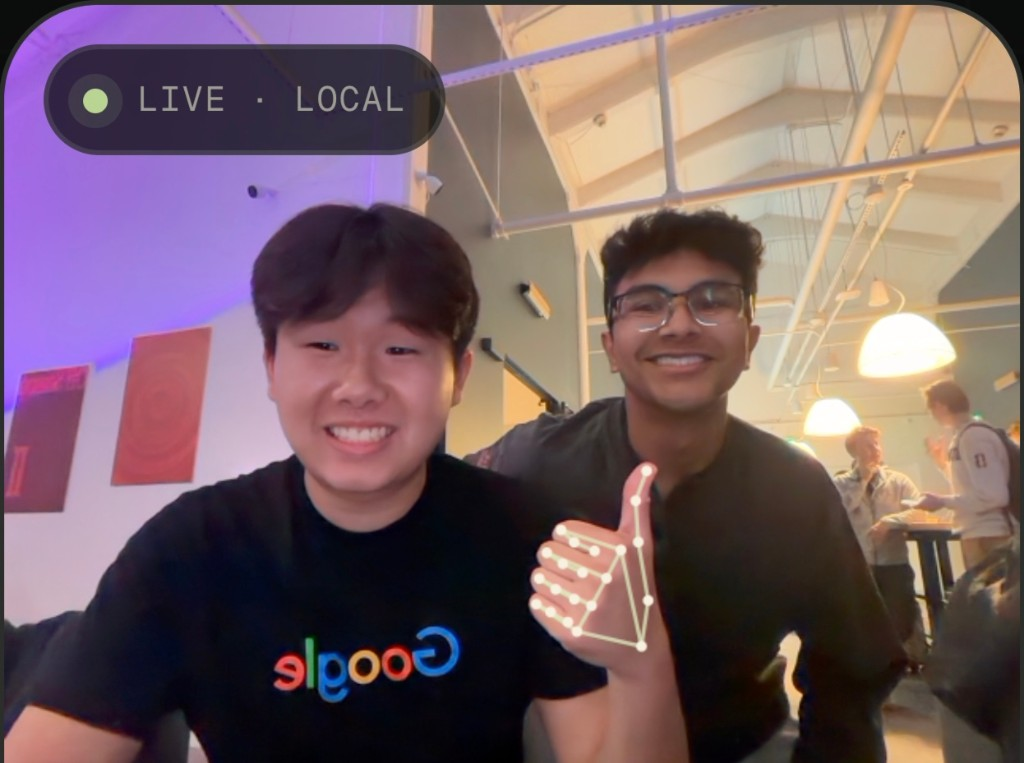
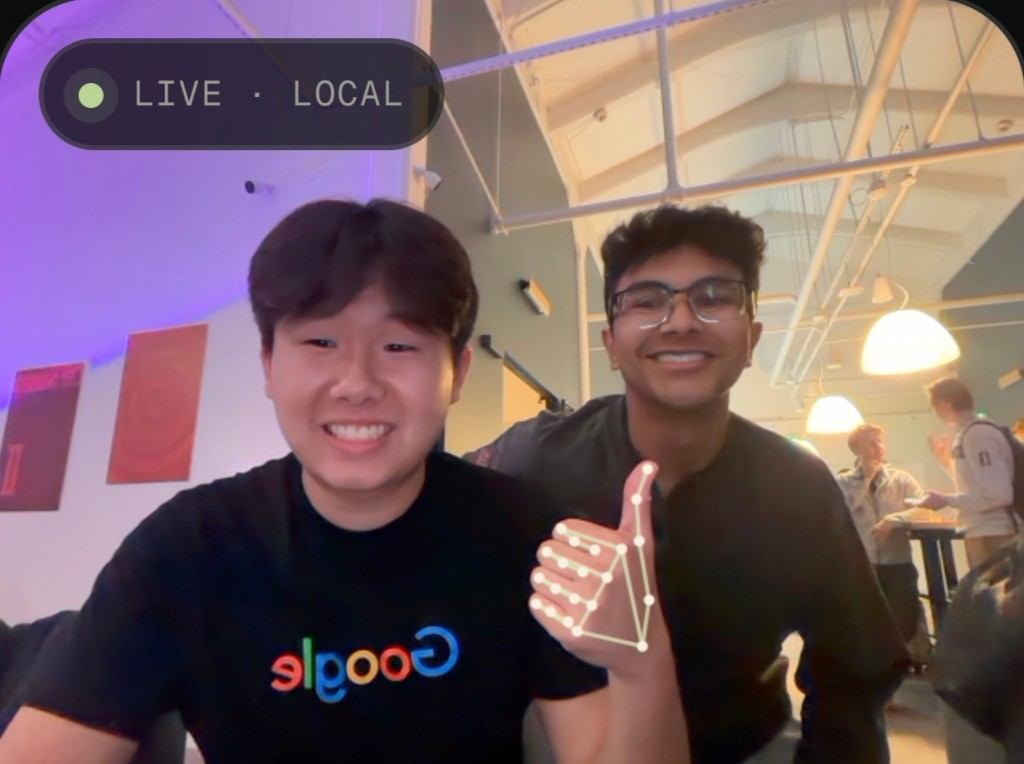
Update Signal thumbnail and night hack photo.

diff --git a/app/projects/project-entries.ts b/app/projects/project-entries.ts
@@ -71,7 +71,7 @@ const projectEntries: ProjectEntry[] = [
       "Universal hand-to-computer interface for macOS control. Uses MediaPipe hand pose estimation and custom gesture recognition to launch applications and enable touchless cursor movement, clicking, scrolling, and zooming.",
     thumbnail: "/projects/signal.png",
     thumbnailWidth: 1024,
-    thumbnailHeight: 763,
+    thumbnailHeight: 764,
     thumbnailScale: 1.18,
     objectPosition: "center 42%",
     date: "2026-07-24",
